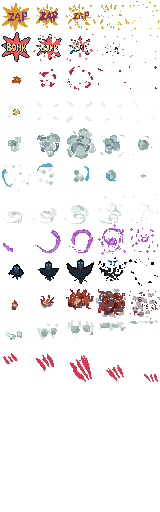
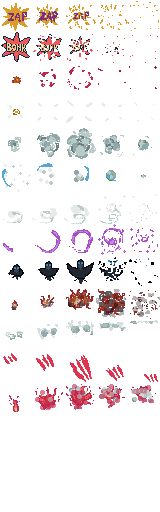
EffectId for fire damage

diff --git a/src/grid.rs b/src/grid.rs
@@ -2178,7 +2178,7 @@ impl GameGrid {
         }
 
         if let Some(ability) = ability {
-            if let Some((effect_id, duration)) = ability.audio_visuals.character_target_effect {
+            if let Some((effect_id, duration)) = ability.audio_visuals.circle_center_target_effect {
                 self.animate_effect_at_pos(
                     (circle.center.0 as f32 + 0.5, circle.center.1 as f32 + 0.5),
                     duration,
@@ -4218,7 +4218,7 @@ impl GameGrid {
             };
             let committable_action: Option<CommittableAction> = match ui_state {
                 UiState::ConfiguringAction(configured_action) => match configured_action {
-                    // TODO what about ranged attack
+                    // TODO what about ranged attack icon
                     ConfiguredAction::Attack { .. } => {
                         Some(CommittableAction::new("Attack", IconId::MeleeAttack))
                     }
@@ -4229,6 +4229,9 @@ impl GameGrid {
                         } else {
                             let target_str = if num_targets == 1 {
                                 let char_id = self.target_effect_previews.keys().next().unwrap();
+                                // BUG: This panicked - haven't been able to reproduce.
+                                // Seemed like maybe an enemy that had already died somehow ended up with a
+                                // target effect preview, despite not existing in the characters data structure.
                                 self.characters[char_id].name.clone()
                             } else {
                                 format!("{} targets", num_targets)
@@ -4593,7 +4596,15 @@ impl GameGrid {
 
                     if pressed_left_mouse && !outcome.committed_action {
                         if self.active_character_id == hovered_id {
-                            if matches!(mouse_state, MouseState::RequiresPointTarget { .. }) {
+                            if matches!(
+                                mouse_state,
+                                MouseState::RequiresPointTarget {
+                                    kind: PointTargetKind::PositionCircle(..),
+                                    ..
+                                }
+                            ) {
+                                // TODO: If clicking active char while configuring line/projectile-targetting ability,
+                                // it should be treated as a regular aim
                                 println!("Clicked active char - treating as clicking ground, for point target");
                                 ui_state.set_target(ActionTarget::Position(mouse_grid_pos));
                                 outcome.switched_players_action_target = true;

diff --git a/src/game_ui.rs b/src/game_ui.rs
@@ -2108,7 +2108,6 @@ impl UserInterface {
         outcomes: &[DecoratedTargetOutcome],
         ability: Option<&Ability>,
     ) {
-        let ability_id = ability.map(|a| a.id);
         if let Some(circle) = circle {
             self.game_grid
                 .animate_circle_area_impact(ability, circle, start_time, animation_color);
@@ -2364,7 +2363,7 @@ impl UserInterface {
                 self.sound_player
                     .play_delayed(SoundId::GainedAP, start_time);
             }
-            AppliedEffect::LostHealth(amount, source, _dmg_type) => {
+            AppliedEffect::LostHealth(amount, source, dmg_type) => {
                 let character = self.characters.get(ch_id);
                 if amount > 0 {
                     self.sound_player
@@ -2373,8 +2372,15 @@ impl UserInterface {
                     self.game_grid
                         .animate_character_health_change(ch_id, prev_health, 0.9);
 
+                    if dmg_type == DamageType::Fire {
+                        self.game_grid.animate_effect(ch_id, 0.5, EffectId::Fire);
+                    }
+
                     match source {
                         DamageSource::Condition(Condition::Burning) => {
+                            self.sound_player.play_delayed(SoundId::Burning, start_time);
+                        }
+                        DamageSource::FireSurface => {
                             self.sound_player.play_delayed(SoundId::Burning, start_time);
                         }
                         DamageSource::KnockbackCollision { move_direction } => {
@@ -2437,9 +2443,7 @@ impl UserInterface {
                 Condition::Ferocity => {
                     self.sound_player.play_delayed(SoundId::Execute, start_time);
                 }
-                Condition::Burning => {
-                    self.sound_player.play_delayed(SoundId::Burning, start_time);
-                }
+
                 _ => {}
             },
             _ => {}

diff --git a/src/map_data.rs b/src/map_data.rs
@@ -676,7 +676,7 @@ pub fn make_test_fighter(party: &Rc<Party>) -> Character {
 }
 
 pub fn make_test_archer(party: &Rc<Party>) -> Character {
-    let mut test_archer = Character::new(
+    let test_archer = Character::new(
         CharacterKind::Player(Rc::clone(party), PlayerId::Alice),
         "Test archer",
         SoundId::DamageFemale,
@@ -685,7 +685,7 @@ pub fn make_test_archer(party: &Rc<Party>) -> Character {
         Attributes::new(3, 5, 3, 3),
         (1, 10),
     );
-    test_archer.set_weapon(HandType::MainHand, CHEAT_BOW);
+    test_archer.set_weapon(HandType::MainHand, BOW);
     test_archer.armor_piece.set(Some(SHIRT));
     test_archer
         .arrows

diff --git a/src/core.rs b/src/core.rs
@@ -5720,6 +5720,7 @@ pub struct AudioVisuals {
     pub initiate_sound: Option<SoundId>,
     pub resolve_sound: Option<SoundId>,
     pub character_target_effect: Option<(EffectId, f32)>,
+    pub circle_center_target_effect: Option<(EffectId, f32)>,
     pub target_magic_sparks: Option<Color>,
     pub target_reaction: AbilityVisualReaction,
 }
@@ -5741,6 +5742,7 @@ impl AudioVisuals {
             charge_fx: None,
             speech: "",
             character_target_effect: None,
+            circle_center_target_effect: None,
             target_magic_sparks: None,
             target_reaction: AbilityVisualReaction::ReelBack,
         }

diff --git a/src/resources.rs b/src/resources.rs
@@ -1619,6 +1619,7 @@ pub enum EffectId {
     FireBomb,
     RisingSmoke,
     Claws,
+    Fire,
 }
 
 impl FlipbookAnimation {
@@ -1636,6 +1637,7 @@ impl FlipbookAnimation {
             EffectId::FireBomb => 9,
             EffectId::RisingSmoke => 10,
             EffectId::Claws => 11,
+            EffectId::Fire => 12,
         };
         let source_size = (32.0, 32.0);
 
@@ -1643,6 +1645,7 @@ impl FlipbookAnimation {
             EffectId::PurpleMagic => 3.0,
             EffectId::FireBomb => 3.0,
             EffectId::RisingSmoke => 3.0,
+            EffectId::Fire => 3.0,
             _ => 2.0,
         };
 

diff --git a/src/data.rs b/src/data.rs
@@ -2398,10 +2398,7 @@ pub const FIRE_BOLT: Ability = Ability {
         charge_fx: Some(AbilityChargeFx {
             particle_shape: ParticleShape::Circle,
         }),
-        // TODO: Not quite right - fire bomb should be reserved for grenade
-        // This one needs a more "regular" fire animation
-        // The "regular" fire animation can be used whenever someone takes damage from burning/fire surface also
-        character_target_effect: Some((EffectId::FireBomb, 0.5)),
+        circle_center_target_effect: Some((EffectId::Fire, 0.5)),
         ..AudioVisuals::default()
     },
 };
